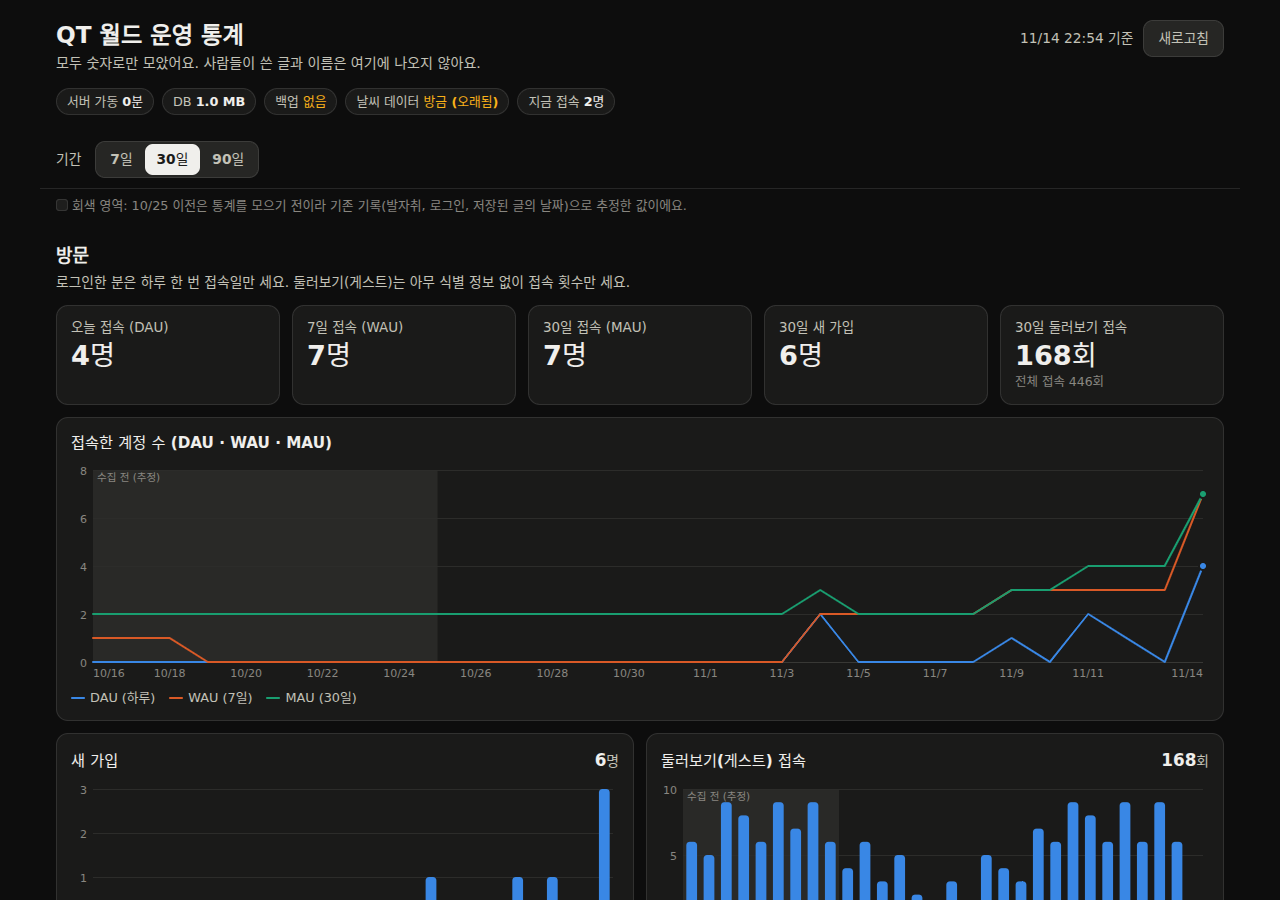
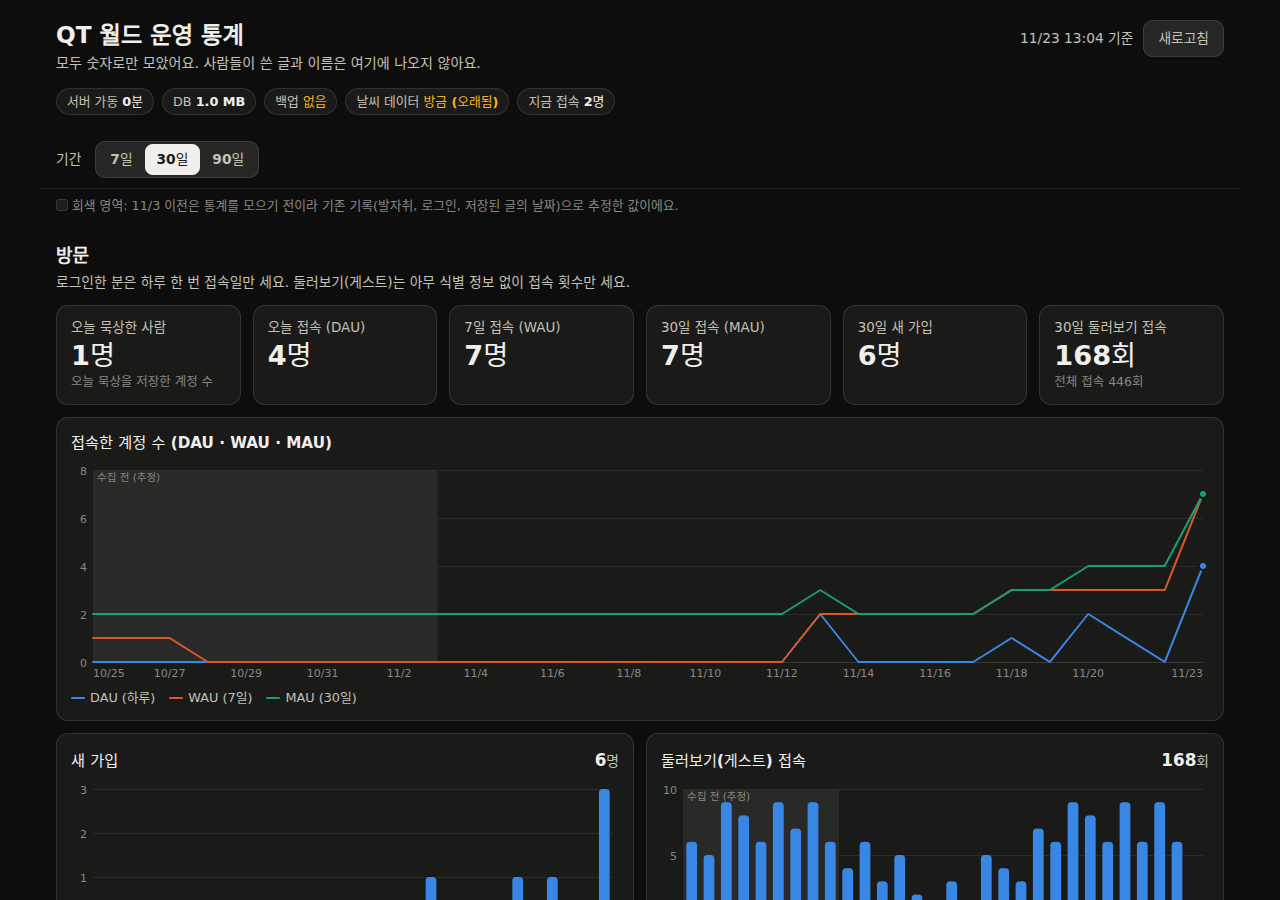
feat(lanterns): show lanterns for 5 days, reflow the hill into time order (migration v16); dashboard counts today's meditators
Claude-Session: https://claude.ai/code/session_01QsWPXXpkTAwZLNvoEFaFKZ

diff --git a/server/src/db.ts b/server/src/db.ts
@@ -557,6 +557,19 @@ export const MIGRATIONS: string[] = [
   );
   CREATE INDEX IF NOT EXISTS lantern_push_seen_at ON lantern_push_seen(at);
   `,
+  // v16: one-time reflow (owner request, 2026-11-23). Lanterns on the hill (the
+  // last 5 days, not taken down) are renumbered 0,1,2… in the order they were lit,
+  // so the hill reads in time order and new lanterns continue after the newest.
+  // 124 = LANTERN_SLOTS.length in shared/protocol.ts.
+  `
+  UPDATE lanterns SET slot = (
+    SELECT (r.rn - 1) % 124 FROM (
+      SELECT id, ROW_NUMBER() OVER (ORDER BY created_at, id) AS rn FROM lanterns
+      WHERE removed_at IS NULL AND created_at >= (CAST(strftime('%s','now') AS INTEGER) * 1000 - 5 * 86400000)
+    ) r WHERE r.id = lanterns.id
+  )
+  WHERE removed_at IS NULL AND created_at >= (CAST(strftime('%s','now') AS INTEGER) * 1000 - 5 * 86400000);
+  `,
 ];
 
 export function openDb(path = defaultDbPath()): DB {

diff --git a/server/src/stats.ts b/server/src/stats.ts
@@ -424,7 +424,13 @@ export class StatsService {
       today,
       collectStart,
       days,
-      visits: { ...rolling, signups, guestSessions: counter('session_guest'), sessions: counter('session_total') },
+      visits: {
+        ...rolling,
+        signups,
+        guestSessions: counter('session_guest'),
+        sessions: counter('session_total'),
+        meditatorsToday: (this.db.prepare('SELECT COUNT(DISTINCT user_id) n FROM meditations WHERE date = ?').get(today) as { n: number }).n,
+      },
       retention: {
         cohorts: weeklyCohorts(members, today, collectStart),
         overall: {

diff --git a/client/src/legal/pages.ts b/client/src/legal/pages.ts
@@ -16,7 +16,7 @@ import { PRIVACY_PATH, TERMS_PATH, type LegalConfig } from '../config/legal';
 const esc = (s: string) => s.replace(/[&<>"']/g, (c) => ({ '&': '&amp;', '<': '&lt;', '>': '&gt;', '"': '&quot;', "'": '&#39;' })[c]!);
 
 /** Lanterns stay on the hill this many days (server/src/services.ts LANTERN_DAYS). */
-const LANTERN_DAYS = 3;
+const LANTERN_DAYS = 5;
 /** A replaced or emptied drawing that was reported is kept this long after its last report (server/src/looks.ts). */
 const REPORTED_OUTFIT_KEEP_DAYS = 30;
 /** Same as RENTAL_KEEP_DAYS in server/src/shop.ts. */

diff --git a/client/src/ui/Guide.ts b/client/src/ui/Guide.ts
@@ -133,7 +133,7 @@ export class Guide {
             ['비공개', '같은 모임 사람만 볼 수 있어요'],
           ]),
           p('상단의 "모임" 버튼에서 모임을 만들면 6자리 코드가 생겨요. 코드를 나누면 그 코드로 참여할 수 있어요.'),
-          p('등불은 3일 동안 밝혀져 있어요. 하루 3개까지 밝힐 수 있어요.', 'guide-soft'),
+          p('등불은 5일 동안 밝혀져 있어요. 하루 3개까지 밝힐 수 있어요.', 'guide-soft'),
         ],
       },
       {

diff --git a/client/src/admin/main.ts b/client/src/admin/main.ts
@@ -239,6 +239,7 @@ function render() {
     const tiles = el('div', 'st-tiles');
     const lastOf = (a: number[]) => a[a.length - 1] ?? 0;
     tiles.append(
+      tile('오늘 묵상한 사람', `${fmtNum(s.visits.meditatorsToday ?? 0)}명`, '오늘 묵상을 저장한 계정 수'),
       tile('오늘 접속 (DAU)', `${fmtNum(lastOf(s.visits.dau))}명`),
       tile('7일 접속 (WAU)', `${fmtNum(lastOf(s.visits.wau))}명`),
       tile('30일 접속 (MAU)', `${fmtNum(lastOf(s.visits.mau))}명`),

diff --git a/client/src/ui/WordBookView.ts b/client/src/ui/WordBookView.ts
@@ -374,7 +374,7 @@ export class WordBookView {
       /* public only */
     }
     const form = el('form', 'share-form');
-    form.append(el('p', 'book-note-head', '등불로 나누기 · 3일 동안 등불 언덕을 밝혀요 (하루 3개까지)'));
+    form.append(el('p', 'book-note-head', '등불로 나누기 · 5일 동안 등불 언덕을 밝혀요 (하루 3개까지)'));
     const pub = el('label', 'share-option');
     const pubInput = el('input');
     pubInput.type = 'radio';

diff --git a/server/src/services.ts b/server/src/services.ts
@@ -21,7 +21,7 @@ import { HttpError } from './http.js';
 
 const DAY_MS = 86_400_000;
 /** Lanterns stay on the hill this long. */
-export const LANTERN_DAYS = 3;
+export const LANTERN_DAYS = 5;
 /** Lanterns one person can light per KST day. */
 export const LANTERNS_PER_DAY = 3;
 export const LANTERN_CAP = 120;

diff --git a/shared/stats.ts b/shared/stats.ts
@@ -64,6 +64,8 @@ export interface AdminStats {
     mau: number[];
     signups: number[];
     guestSessions: number[];
+    /** Distinct accounts that saved a meditation today (KST). A count only. */
+    meditatorsToday: number;
     sessions: number[];
   };
   retention: {
